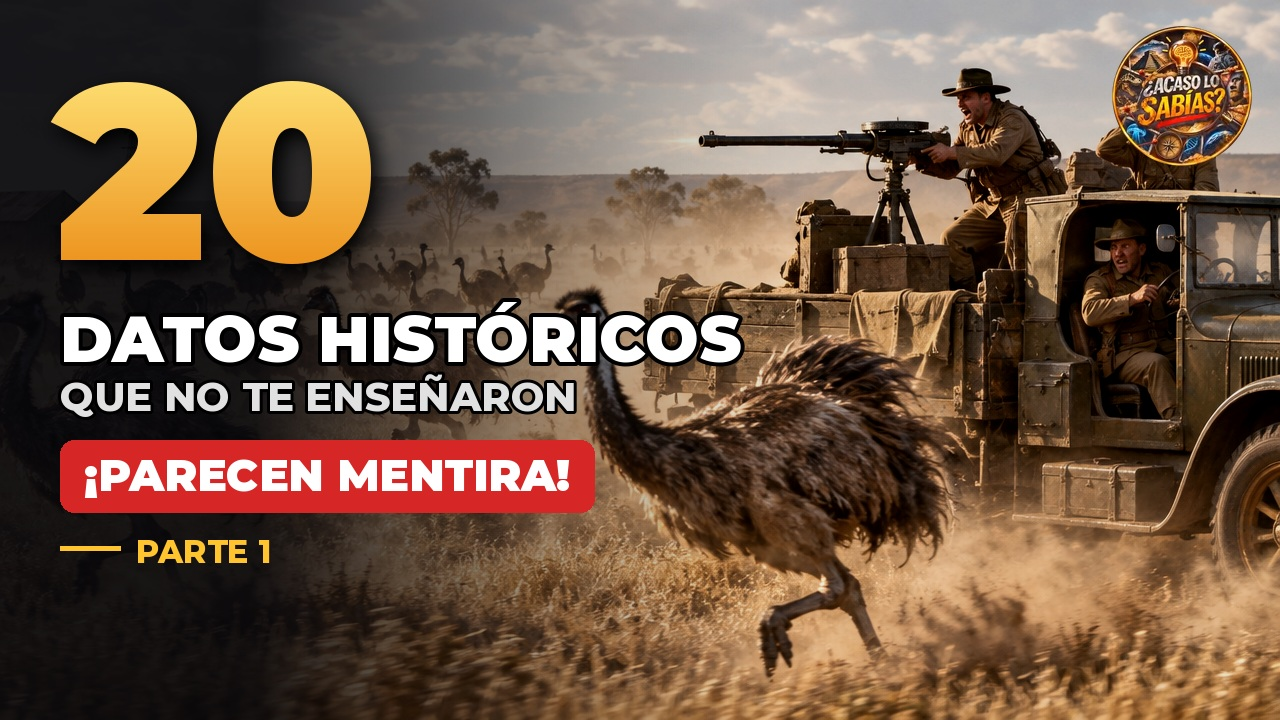
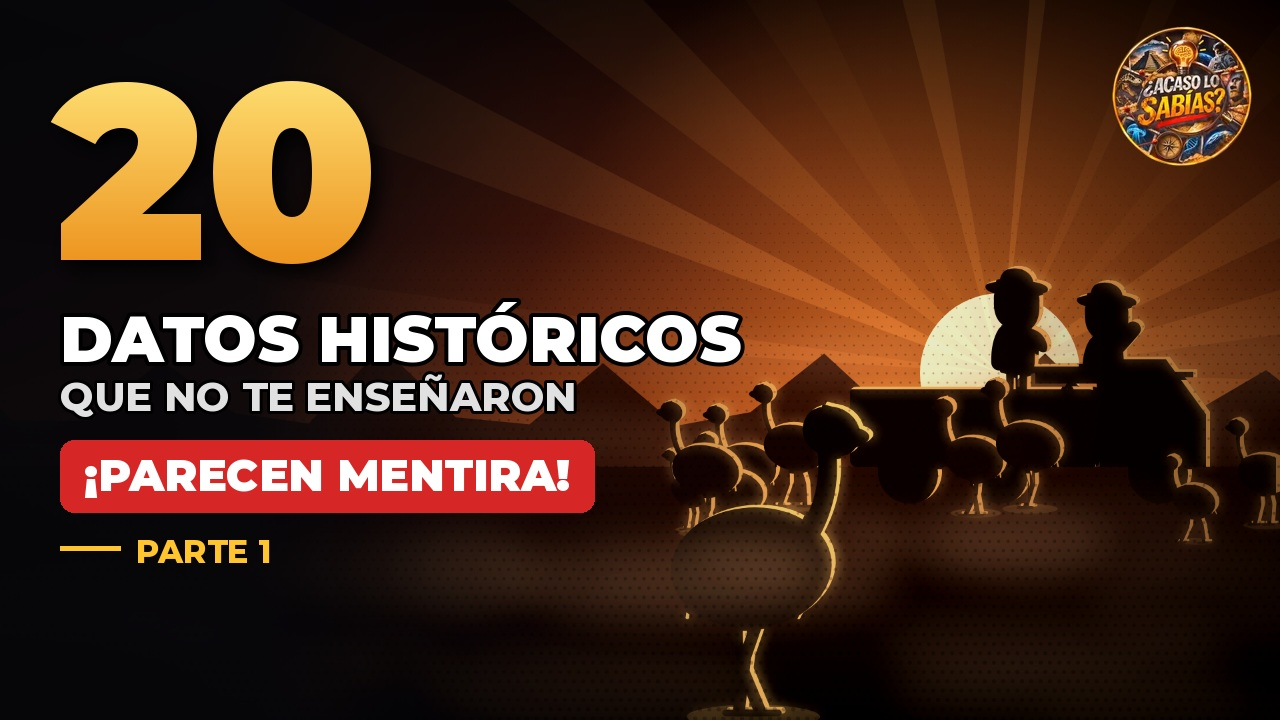
Miniaturas 2D estilo novela gráfica (siluetas a contraluz) a juego con el vídeo
Claude-Session: https://claude.ai/code/session_01RCiXDibnj7NkNBXDTnxzmV

diff --git a/video-historia/motor2d/fondos_mini.js b/video-historia/motor2d/fondos_mini.js
@@ -1,0 +1,38 @@
+// Fondos 2D estilo novela gráfica para las miniaturas: node fondos_mini.js
+const { chromium } = require('playwright'); const fs = require('fs'), path = require('path'); const D = __dirname;
+(async () => {
+  const b = await chromium.launch({ args: ['--use-gl=swiftshader', '--enable-unsafe-swiftshader'] }); const p = await b.newPage({ viewport: { width: 1920, height: 1080 } });
+  const js = ['kit.js', 'personajes.js', 'mascota.js', 'escenas1.js', 'escenas2.js', 'capas.js'].map(f => fs.readFileSync(path.join(D, f), 'utf8')).join('\n');
+  await p.setContent(`<canvas id=c width=1920 height=1080></canvas><script>${js}
+  setCtx(document.getElementById('c').getContext('2d')); NOW = 1.3;
+  // dibuja fn como silueta de color 'col' con contraluz 'rim' desde la dirección dx
+  let SL = null;
+  function silhouette(fn, col, rim, dx = 1) { if (!SL) { SL = document.createElement('canvas'); SL.width = W; SL.height = H; } const s = SL.getContext('2d'); s.setTransform(1, 0, 0, 1, 0, 0); s.globalCompositeOperation = 'source-over'; s.clearRect(0, 0, W, H);
+    const main = X; X = s; fn(); X = main;
+    s.globalCompositeOperation = 'source-in'; s.fillStyle = col; s.fillRect(0, 0, W, H);
+    // contraluz: copia desplazada hacia la luz, recortada por la silueta
+    const off = document.createElement('canvas'); off.width = W; off.height = H; const o = off.getContext('2d'); o.drawImage(SL, 0, 0); o.globalCompositeOperation = 'destination-out'; o.drawImage(SL, -6 * dx, 4);
+    o.globalCompositeOperation = 'source-in'; o.fillStyle = rim; o.fillRect(0, 0, W, H);
+    X.drawImage(SL, 0, 0); X.save(); X.shadowColor = rim; X.shadowBlur = 18; X.drawImage(off, 0, 0); X.restore(); }
+  function dust(n, seed, col, y0, y1) { const R = rng(seed); for (let i = 0; i < n; i++) { X.filter = 'blur(28px)'; X.fillStyle = rgba(col, .04 + R() * .08); X.beginPath(); X.ellipse(R() * W, y0 + R() * (y1 - y0), 80 + R() * 260, 20 + R() * 60, 0, 0, 7); X.fill(); } X.filter = 'none'; }
+  function halftone(col, a) { X.save(); X.globalAlpha = a; X.fillStyle = col; for (let y = 0; y < H; y += 14) for (let x = (y / 14) % 2 * 7; x < W; x += 14) { const r = 3.2 * (y / H); X.beginPath(); X.arc(x, y, r, 0, 7); X.fill(); } X.restore(); }
+  window.fondo = (n) => {
+    if (n === 1) { sky(['#1a0b08', '#5a1e0e', '#c4501a', '#f6a03c']); sun(1500, 560, 120, '#fff0c0', '#ff8a2a'); rays(1500, 560, '#ffb347', 2, 20, 1800, .1);
+      mountains(11, 640, 120, '#3a1408', 7, .4); dust(30, 3, '#ffb070', 520, 900);
+      ground(700, '#2a0e06', '#0a0402');
+      silhouette(() => { truck(1560, 760, 1.5); machinegun(1607, 570, 1.35); person(1528, 602, 182, { hat: 'slouch', arm: .4 }); person(1663, 614, 174, { hat: 'slouch', arm: 1.1 }); }, '#120604', 'rgba(255,170,80,1)', 1);
+      for (let i = 0; i < 9; i++) { const R = rng(i + 40); silhouette(() => emu(1000 + R() * 900, 760 + R() * 60, .5 + R() * .4, i * 1.7, -1), '#1a0905', 'rgba(255,170,80,.9)', 1); }
+      silhouette(() => emu(1130, 1075, 2.0, 2.2, 1), '#0e0503', 'rgba(255,190,90,1)', 1);
+      dust(25, 5, '#ffb070', 800, 1080); halftone('#000', .25); vignette(.6); }
+    else { sky(['#020306', '#0a0d16', '#141a28', '#06070c']); X.save(); X.globalCompositeOperation = 'lighter'; const g = X.createLinearGradient(1400, 0, 1250, 900); g.addColorStop(0, 'rgba(190,215,255,.55)'); g.addColorStop(1, 'rgba(190,215,255,0)'); X.fillStyle = g; X.beginPath(); X.moveTo(1330, -20); X.lineTo(1470, -20); X.lineTo(1720, 1000); X.lineTo(1060, 1000); X.fill(); X.restore();
+      X.fillStyle = '#0b0d14'; X.fillRect(0, 120, 520, 900); X.fillRect(1700, 80, 300, 950); for (let i = 0; i < 2; i++) { glow(1790, 420 + i * 260, 120, '#ffb347', .35); X.fillStyle = 'rgba(255,190,90,.75)'; X.beginPath(); X.roundRect(1765, 380 + i * 260, 50, 90, [25, 25, 0, 0]); X.fill(); }
+      ground(900, '#121520', '#030305'); dust(30, 9, '#a0b4d0', 650, 1000);
+      silhouette(() => guillotineDraw(1380, 960, .85, 0), '#06070b', 'rgba(200,220,255,1)', -1);
+      X.save(); X.globalCompositeOperation = 'lighter'; X.fillStyle = 'rgba(220,235,255,.85)'; X.beginPath(); X.moveTo(1380 - 130 * .85, 960 - 700 * .85); X.lineTo(1380 + 130 * .85, 960 - 700 * .85); X.lineTo(1380 + 130 * .85, 960 - 620 * .85); X.lineTo(1380 - 130 * .85, 960 - 540 * .85); X.fill(); X.restore();
+      halftone('#000', .25); vignette(.65); }
+    const c2 = document.createElement('canvas'); c2.width = 1280; c2.height = 720; c2.getContext('2d').drawImage(document.getElementById('c'), 0, 0, 1280, 720); return c2.toDataURL('image/png'); };
+  </script>`);
+  p.on('pageerror', e => { console.error(e.message); process.exit(1); });
+  for (const n of [1, 2]) { const d = await p.evaluate(n => fondo(n), n); fs.writeFileSync(path.join(D, `../img/fondo_mini${n}.png`), Buffer.from(d.split(',')[1], 'base64')); }
+  await b.close(); console.log('fondos listos');
+})();
